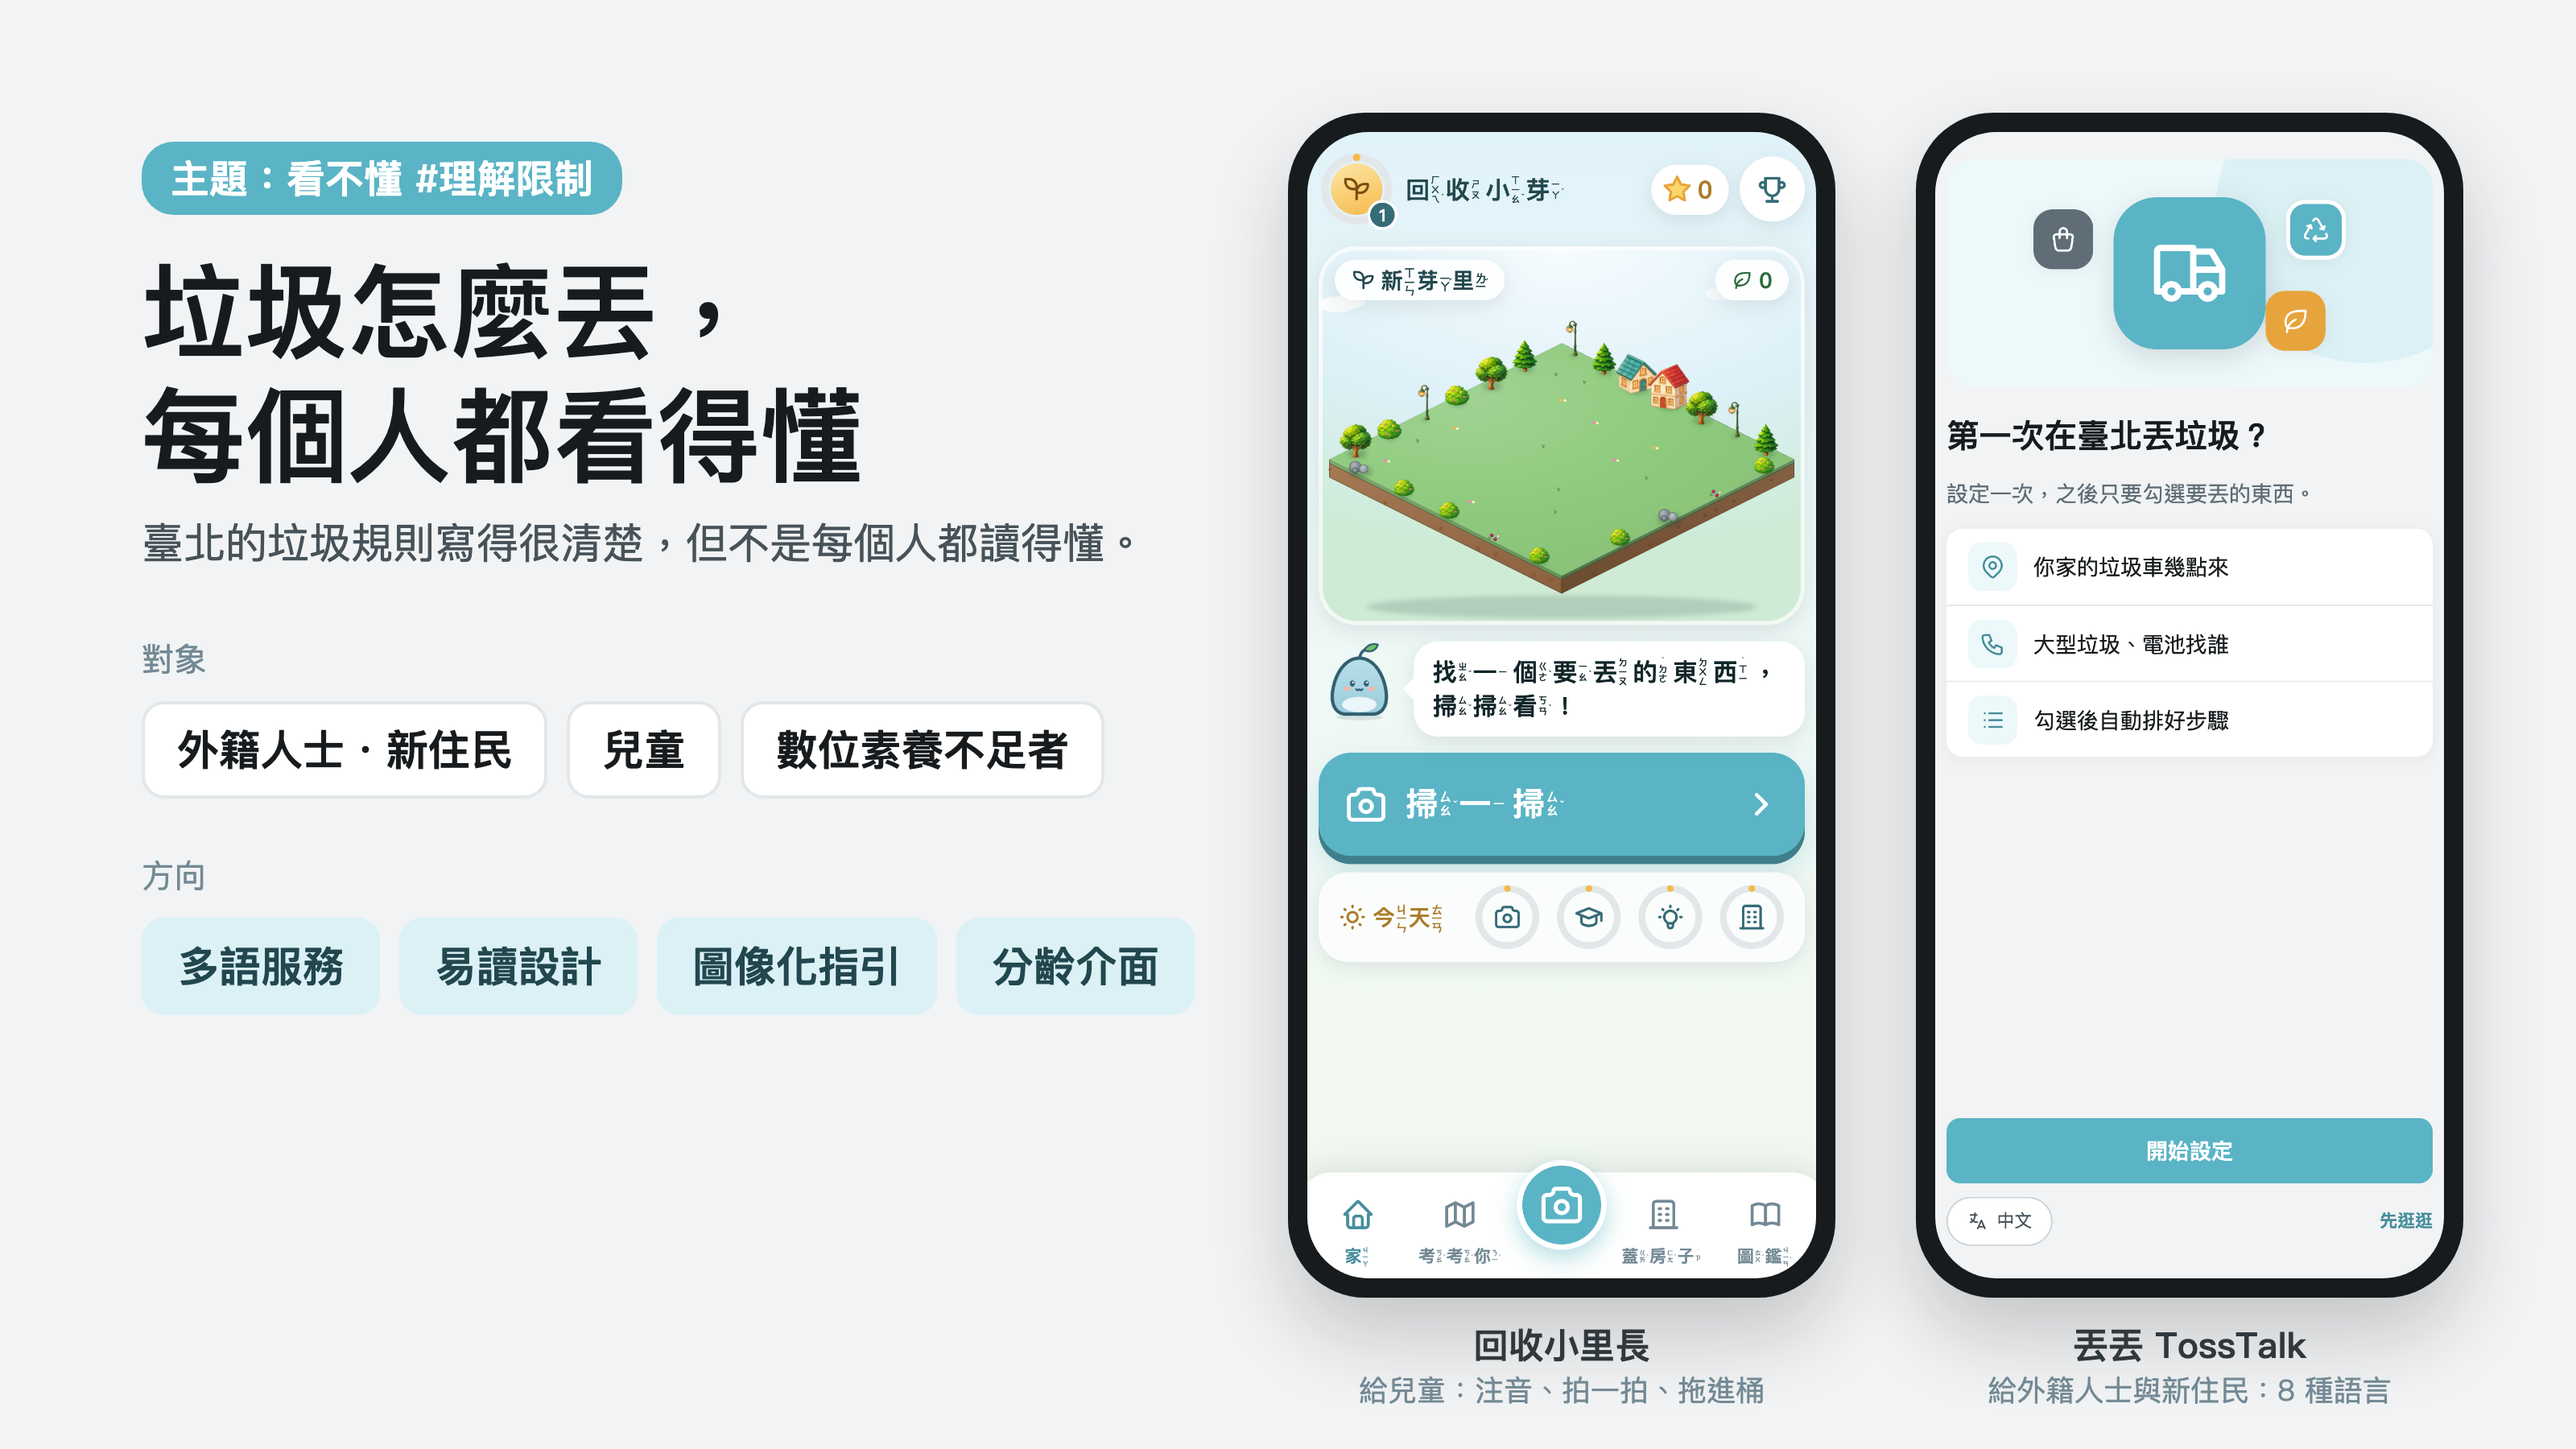
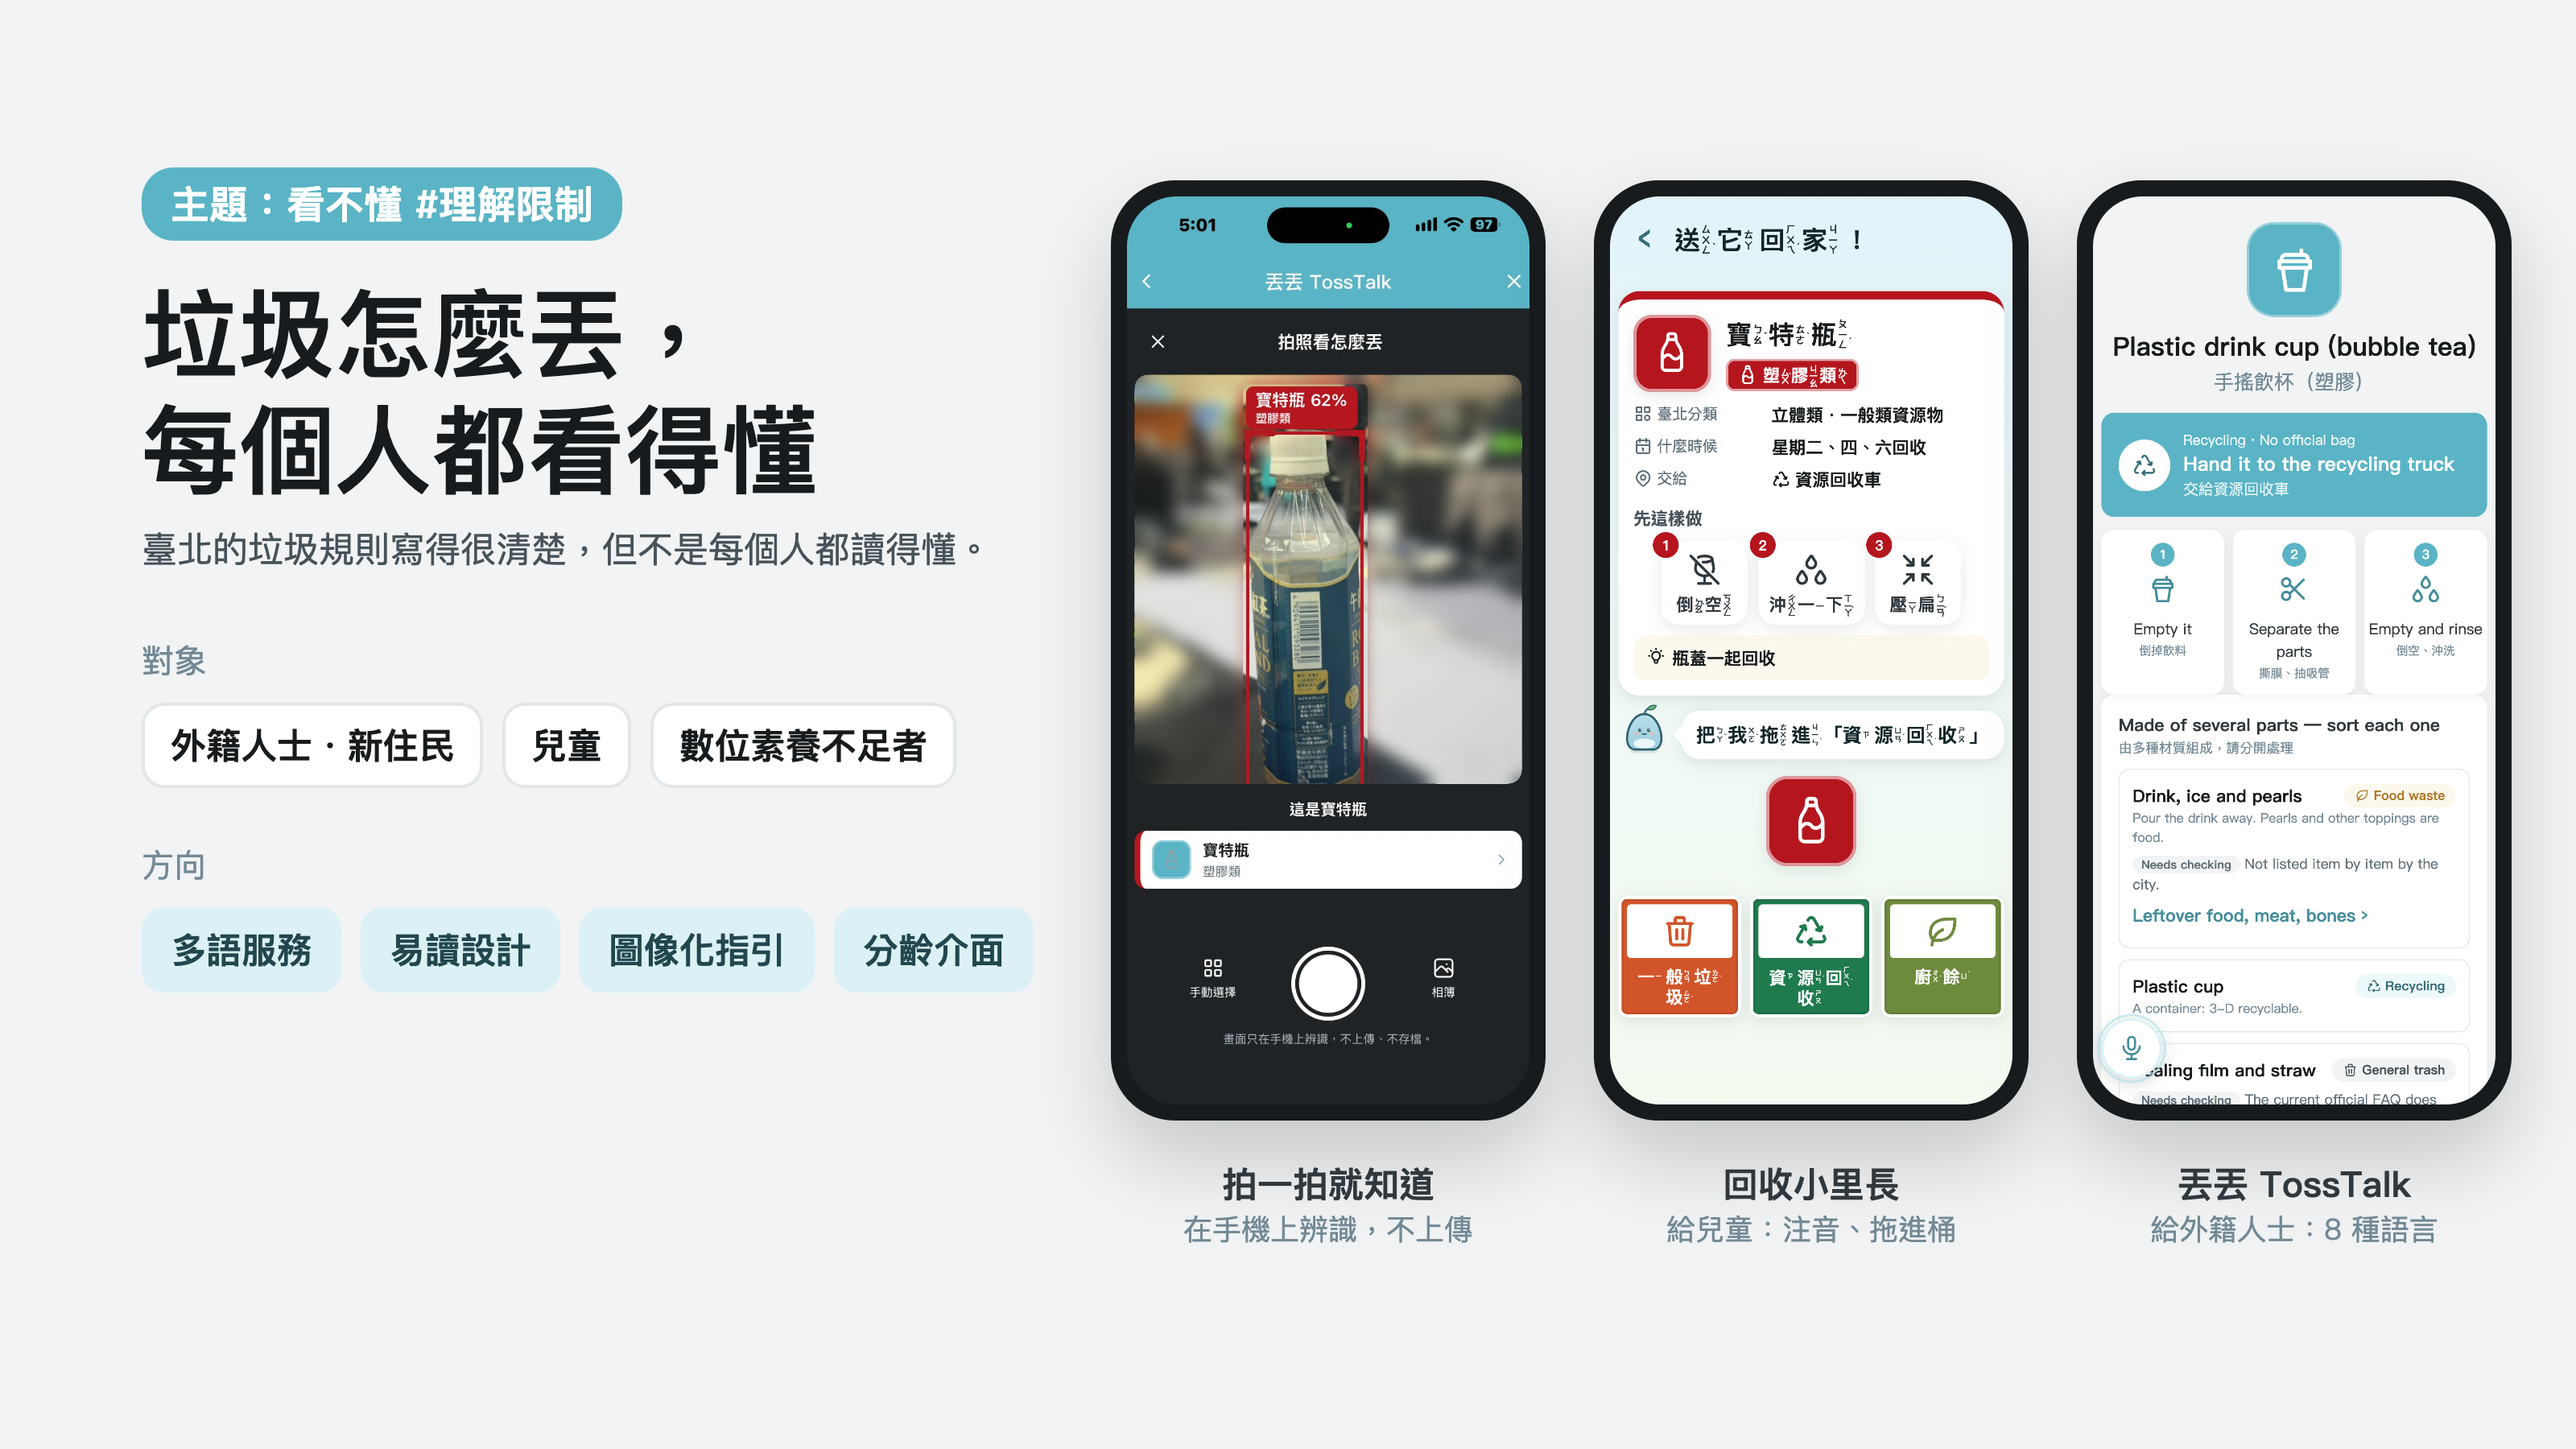
docs(readme): overview shows scan, 送它回家 and the bilingual item card
The scan screen is a real iPhone screenshot with the background blurred.

diff --git a/docs/readme/overview.html b/docs/readme/overview.html
@@ -1,27 +1,27 @@
 <!doctype html>
-<!-- README 主圖原始檔。輸出：overview.png（見 docs/readme/README.md）。截圖來自線上版。 -->
+<!-- README 主圖原始檔，用 Chrome headless 輸出 overview.png。screen-scan.png 是 iPhone 實機截圖（背景已模糊），其他兩張截自本機開發版。 -->
 <html lang="zh-Hant-TW"><head><meta charset="utf-8">
 <style>
 @font-face { font-family: PF; src: url(../../fonts/PingFangTC-Regular.otf); font-weight: 400; }
 @font-face { font-family: PF; src: url(../../fonts/PingFangTC-Semibold.otf); font-weight: 600; }
 * { box-sizing: border-box; }
 body { margin: 0; width: 1600px; height: 900px; font-family: PF, sans-serif; color: #171B1D; background: #F1F3F4; overflow: hidden; }
-.wrap { display: grid; grid-template-columns: 760px 1fr; height: 100%; }
-.left { padding: 88px 0 0 88px; }
+.wrap { display: grid; grid-template-columns: 680px 1fr; height: 100%; }
+.left { padding: 104px 0 0 88px; }
 .tag { display: inline-block; padding: 6px 18px; border-radius: 20px; background: #5AB4C5; color: #fff; font-size: 24px; font-weight: 600; }
-h1 { margin: 22px 0 10px; font-size: 64px; line-height: 1.2; font-weight: 600; }
-.lead { margin: 0 0 40px; font-size: 26px; color: #475259; }
+h1 { margin: 22px 0 10px; font-size: 60px; line-height: 1.2; font-weight: 600; }
+.lead { margin: 0 0 40px; font-size: 22px; color: #475259; }
 .label { font-size: 20px; color: #738995; margin: 0 0 12px; }
 .row { display: flex; gap: 12px; flex-wrap: wrap; margin-bottom: 34px; }
-.chip { padding: 10px 20px; border-radius: 14px; background: #fff; font-size: 26px; font-weight: 600; border: 2px solid #E3E7E9; }
+.chip { padding: 9px 16px; border-radius: 14px; background: #fff; font-size: 22px; font-weight: 600; border: 2px solid #E3E7E9; }
 .chip.d { background: #DBF1F5; border-color: #DBF1F5; color: #22474E; }
 .right { position: relative; }
-.phone { position: absolute; top: 70px; width: 340px; height: 736px; border-radius: 48px; background: #171B1D; padding: 12px; box-shadow: 0 24px 48px rgba(23,27,29,.2); }
-.phone img { width: 316px; height: 712px; border-radius: 38px; object-fit: cover; object-position: top; display: block; }
-.p1 { left: 40px; } .p2 { left: 430px; }
-.cap { position: absolute; top: 820px; width: 340px; text-align: center; font-size: 22px; color: #30383D; font-weight: 600; }
+.phone { position: absolute; top: 112px; width: 270px; height: 584px; border-radius: 40px; background: #171B1D; padding: 10px; box-shadow: 0 24px 48px rgba(23,27,29,.2); }
+.phone img { width: 250px; height: 564px; border-radius: 31px; object-fit: cover; object-position: top; display: block; }
+.p1 { left: 10px; } .p2 { left: 310px; } .p3 { left: 610px; }
+.cap { position: absolute; top: 720px; width: 270px; text-align: center; font-size: 22px; color: #30383D; font-weight: 600; }
 .cap span { display: block; font-size: 18px; font-weight: 400; color: #738995; }
-.c1 { left: 40px; } .c2 { left: 430px; }
+.c1 { left: 10px; } .c2 { left: 310px; } .c3 { left: 610px; }
 </style></head><body>
 <div class="wrap">
   <div class="left">
@@ -34,10 +34,12 @@ h1 { margin: 22px 0 10px; font-size: 64px; line-height: 1.2; font-weight: 600; }
     <div class="row"><span class="chip d">多語服務</span><span class="chip d">易讀設計</span><span class="chip d">圖像化指引</span><span class="chip d">分齡介面</span></div>
   </div>
   <div class="right">
-    <div class="phone p1"><img src="screen-recycle-li.png" alt=""></div>
-    <div class="phone p2"><img src="screen-diudiu.png" alt=""></div>
-    <div class="cap c1">回收小里長<span>給兒童：注音、拍一拍、拖進桶</span></div>
-    <div class="cap c2">丟丟 TossTalk<span>給外籍人士與新住民：8 種語言</span></div>
+    <div class="phone p1"><img src="screen-scan.png" alt=""></div>
+    <div class="phone p2"><img src="screen-recycle-li.png" alt=""></div>
+    <div class="phone p3"><img src="screen-diudiu.png" alt=""></div>
+    <div class="cap c1">拍一拍就知道<span>在手機上辨識，不上傳</span></div>
+    <div class="cap c2">回收小里長<span>給兒童：注音、拖進桶</span></div>
+    <div class="cap c3">丟丟 TossTalk<span>給外籍人士：8 種語言</span></div>
   </div>
 </div>
 </body></html>

diff --git a/README.md b/README.md
@@ -103,7 +103,7 @@ cd microservices/trash_helper && firebase deploy --only hosting --project taipei
   - 版本、雜湊與準確率見 [recycle-li/README.md](recycle-li/README.md)「AI 與模型揭露」
 - **語音提問**（丟丟）：使用手機作業系統內建的語音辨識，只在按下麥克風後聆聽。
 - **開發輔助**：Claude Code、Codex 協助撰寫程式、文件與翻譯；回收小里長「我的里」插圖在開發時以影像生成產生，記錄在其 README「插圖來源」。
-- **本頁主圖**：`docs/readme/overview.html` 排版、截圖取自線上版，沒有使用生成圖片。
+- **本頁主圖**：`docs/readme/overview.html` 排版；掃描畫面是 iPhone 實機截圖（背景已模糊），其他兩張截自開發版，沒有使用生成圖片。
 
 ## 授權 / License
 
